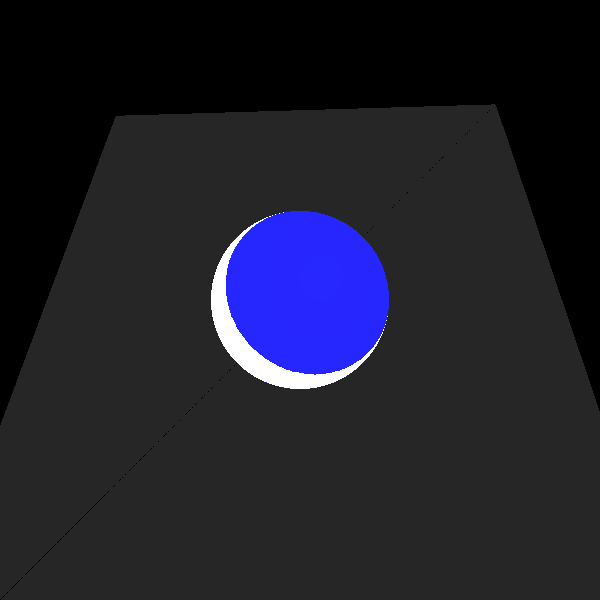
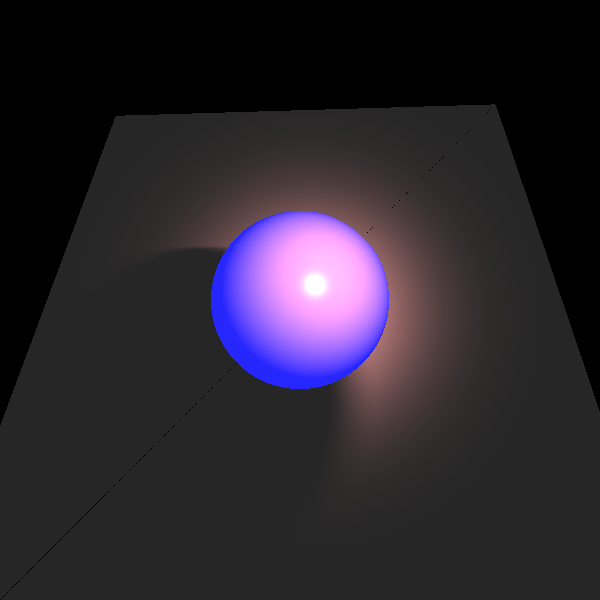
Fix the bug at soft shadow of the 8'th Stage.

Changed region(s): [[0.3, 0.27, 0.78, 0.75]]

diff --git a/src/lighting/PointLight.java b/src/lighting/PointLight.java
@@ -120,31 +120,78 @@ public class PointLight extends Light implements LightSource
         return alignZero(position.distance(point));
     }
 
+//    @Override
+//    public List<Point> generateBeamPoints(Point p0, Vector horizontal, Vector vertical, double radius, int numOfPoints)
+//    {
+//        List<Point> beamPoints = new LinkedList<>();
+//        double angleDelta = 360.0 / numOfPoints;
+//
+//        for (int i = 0; i < numOfPoints; i++)
+//        {
+//            // Calculate the angle in radians
+//            double angle = Math.toRadians(angleDelta * i);
+//            double cosAngle = Math.cos(angle);
+//            double sinAngle = Math.sin(angle);
+//            double newRadius = radius * random.nextDouble();
+//            double radiusCos = newRadius * cosAngle;
+//            double radiusSin = newRadius * sinAngle;
+//
+//            // Calculate the position of the point on the circle
+//            double x = p0.getX() + radiusCos * horizontal.getX() + radiusSin * vertical.getX();
+//            double y = p0.getY() + radiusCos * horizontal.getY() + radiusSin * vertical.getY();
+//            double z = p0.getZ() + radiusCos * horizontal.getZ() + radiusSin * vertical.getZ();
+//
+//            // Create the point and add it to the list
+//            beamPoints.add(new Point(x, y, z));
+//        }
+//
+//        return beamPoints;
+//    }
+
     @Override
-    public List<Point> generateBeamPoints(Point p0, Vector horizontal, Vector vertical, double radius, int numOfPoints)
+    public List<Vector> generateBeam(Point p, LightSource light)
     {
-        List<Point> beamPoints = new LinkedList<>();
-        double angleDelta = 360.0 / numOfPoints;
+        List<Vector> vectors = new LinkedList();
 
-        for (int i = 0; i < numOfPoints; i++)
+        double radius = light.getDistance(p) / 25;
+
+        //grid of vectors around the light
+        for (double i = -radius; i < radius; i += radius / 10)
         {
-            // Calculate the angle in radians
-            double angle = Math.toRadians(angleDelta * i);
-            double cosAngle = Math.cos(angle);
-            double sinAngle = Math.sin(angle);
-            double newRadius = radius * random.nextDouble();
-            double radiusCos = newRadius * cosAngle;
-            double radiusSin = newRadius * sinAngle;
+            for (double j = -radius; j < radius; j += radius / 10)
+            {
+                if (i != 0 && j != 0)
+                {
+                    //create a point on the grid
+                    Point point = position.add(new Vector(i, 0.1d, j));
+                    if (point.equals(position))
+                    {
+                        //if the point is the same as the light position,
+                        // add the vector from the point to the light
+                        vectors.add(p.subtract(point).normalize());
+                    }
+                    else
+                    {
+                        try
+                        {
+                            if (point.subtract(position).dotProduct(point.subtract(position)) <= radius * radius)
+                            {
+                                //if the point is in the radius of the light, add the vector from the point to the light
+                                vectors.add(p.subtract(point).normalize());
+                            }
+                        }
+                        catch (Exception e)
+                        {
+                            //if the point is not in the radius of the light, add the vector from the point to the light
+                            vectors.add(p.subtract(point).normalize());
+                        }
 
-            // Calculate the position of the point on the circle
-            double x = p0.getX() + radiusCos * horizontal.getX() + radiusSin * vertical.getX();
-            double y = p0.getY() + radiusCos * horizontal.getY() + radiusSin * vertical.getY();
-            double z = p0.getZ() + radiusCos * horizontal.getZ() + radiusSin * vertical.getZ();
+                    }
+                }
 
-            // Create the point and add it to the list
-            beamPoints.add(new Point(x, y, z));
+            }
         }
-
-        return beamPoints;
+        vectors.add(getL(p));
+        return vectors;
     }
 }

diff --git a/src/renderer/RayTracerBasic.java b/src/renderer/RayTracerBasic.java
@@ -210,7 +210,7 @@ public class RayTracerBasic extends RayTracerBase
 			Vector l = lightSource.getL(gp.point);
 			Color colorBeam = Color.BLACK;
 			
-			var beam = createBeam(gp, lightSource, l, n);
+			List<Vector> beam = lightSource.generateBeam(gp.point, lightSource);
 			
 			for (Vector vec: beam)
 			{
@@ -337,43 +337,43 @@ public class RayTracerBasic extends RayTracerBase
 		return ktr;
 	}
 
-	private List<Vector> createBeam(GeoPoint gp, LightSource light, Vector l, Vector n)
-	{
-		double distance = light.getDistance(gp.point);
-		
-		// directional light
-		if (distance == Double.POSITIVE_INFINITY)
-			return List.of(l);
-		
-		Vector horizontal;
-
-		if (alignZero(l.getX()) == 0 && alignZero(l.getY()) == 0)
-		{
-			horizontal = new Vector(1, 0, 0);
-		}
-		else
-		{
-			horizontal = new Vector(-1 * l.getY(), l.getX(), 0).normalize();
-		}
-
-		Vector vertical = l.crossProduct(horizontal).normalize();
-
-		double radius = distance / 10;
-
-		int numOfPoints = (int)radius * 20;
-		
-		Point point = gp.point.add(l.scale(-distance));
-
-		List<Point> beamSource = light.generateBeamPoints(point, horizontal, vertical, radius, numOfPoints);
-		
-		LinkedList<Vector> beamVectors = new LinkedList<>();
-		beamVectors.add(l);
-
-		for (Point p : beamSource)
-		{
-			beamVectors.add(gp.point.subtract(p));
-		}
-		
-		return beamVectors;
-	}
+//	private List<Vector> createBeam(GeoPoint gp, LightSource light, Vector l, Vector n)
+//	{
+//		double distance = light.getDistance(gp.point);
+//
+//		// directional light
+//		if (distance == Double.POSITIVE_INFINITY)
+//			return List.of(l);
+//
+//		Vector horizontal;
+//
+//		if (alignZero(l.getX()) == 0 && alignZero(l.getY()) == 0)
+//		{
+//			horizontal = new Vector(1, 0, 0);
+//		}
+//		else
+//		{
+//			horizontal = new Vector(-1 * l.getY(), l.getX(), 0).normalize();
+//		}
+//
+//		Vector vertical = l.crossProduct(horizontal).normalize();
+//
+//		double radius = distance / 10;
+//
+//		int numOfPoints = (int)radius * 20;
+//
+//		Point point = gp.point.add(l.scale(-distance));
+//
+//		List<Point> beamSource = light.generateBeamPoints(point, horizontal, vertical, radius, numOfPoints);
+//
+//		LinkedList<Vector> beamVectors = new LinkedList<>();
+//		beamVectors.add(l);
+//
+//		for (Point p : beamSource)
+//		{
+//			beamVectors.add(gp.point.subtract(p));
+//		}
+//
+//		return beamVectors;
+//	}
 }

diff --git a/unitTests/renderer/ShadowTests.java b/unitTests/renderer/ShadowTests.java
@@ -167,24 +167,24 @@ public class ShadowTests
 		camera.writeToImage();
 	}
 	
-	@Test
-	public void checkBeam()
-	{
-		LightSource lightSource = new SpotLight(new Color(400, 240, 0), new Point(0,0,0), new Vector(1, 1, -3)) //
-				.setKl(1E-5)
-				.setKq(1.5E-7);
-		
-		List<Point> beam = lightSource
-				.generateBeamPoints(new Point(0,0,0),
-									new Vector(1,0,0),
-									new Vector(0,1,0),
-									5.0,
-									100);
-		
-		for (Point p: beam)
-		{
-			System.out.println(p);
-		}
-	}
+//	@Test
+//	public void checkBeam()
+//	{
+//		LightSource lightSource = new SpotLight(new Color(400, 240, 0), new Point(0,0,0), new Vector(1, 1, -3)) //
+//				.setKl(1E-5)
+//				.setKq(1.5E-7);
+//
+//		List<Point> beam = lightSource
+//				.generateBeamPoints(new Point(0,0,0),
+//									new Vector(1,0,0),
+//									new Vector(0,1,0),
+//									5.0,
+//									100);
+//
+//		for (Point p: beam)
+//		{
+//			System.out.println(p);
+//		}
+//	}
 	
 }

diff --git a/src/lighting/DirectionalLight.java b/src/lighting/DirectionalLight.java
@@ -63,8 +63,14 @@ public class DirectionalLight extends Light implements LightSource
         return Double.POSITIVE_INFINITY;
     }
 
+//    @Override
+//    public List<Point> generateBeamPoints(Point p0, Vector x, Vector vertical, double radius, int numOfPoints)
+//    {
+//        return null;
+//    }
+
     @Override
-    public List<Point> generateBeamPoints(Point p0, Vector x, Vector vertical, double radius, int numOfPoints)
+    public List<Vector> generateBeam(Point p, LightSource light)
     {
         return null;
     }

diff --git a/src/lighting/LightSource.java b/src/lighting/LightSource.java
@@ -36,5 +36,7 @@ public interface LightSource
      */
     double getDistance(Point point);
 
-    List<Point> generateBeamPoints(Point p0, Vector horizontal, Vector vertical, double radius, int numOfPoints);
+    //List<Point> generateBeamPoints(Point p0, Vector horizontal, Vector vertical, double radius, int numOfPoints);
+
+    public List<Vector> generateBeam(Point p, LightSource light);
 }
